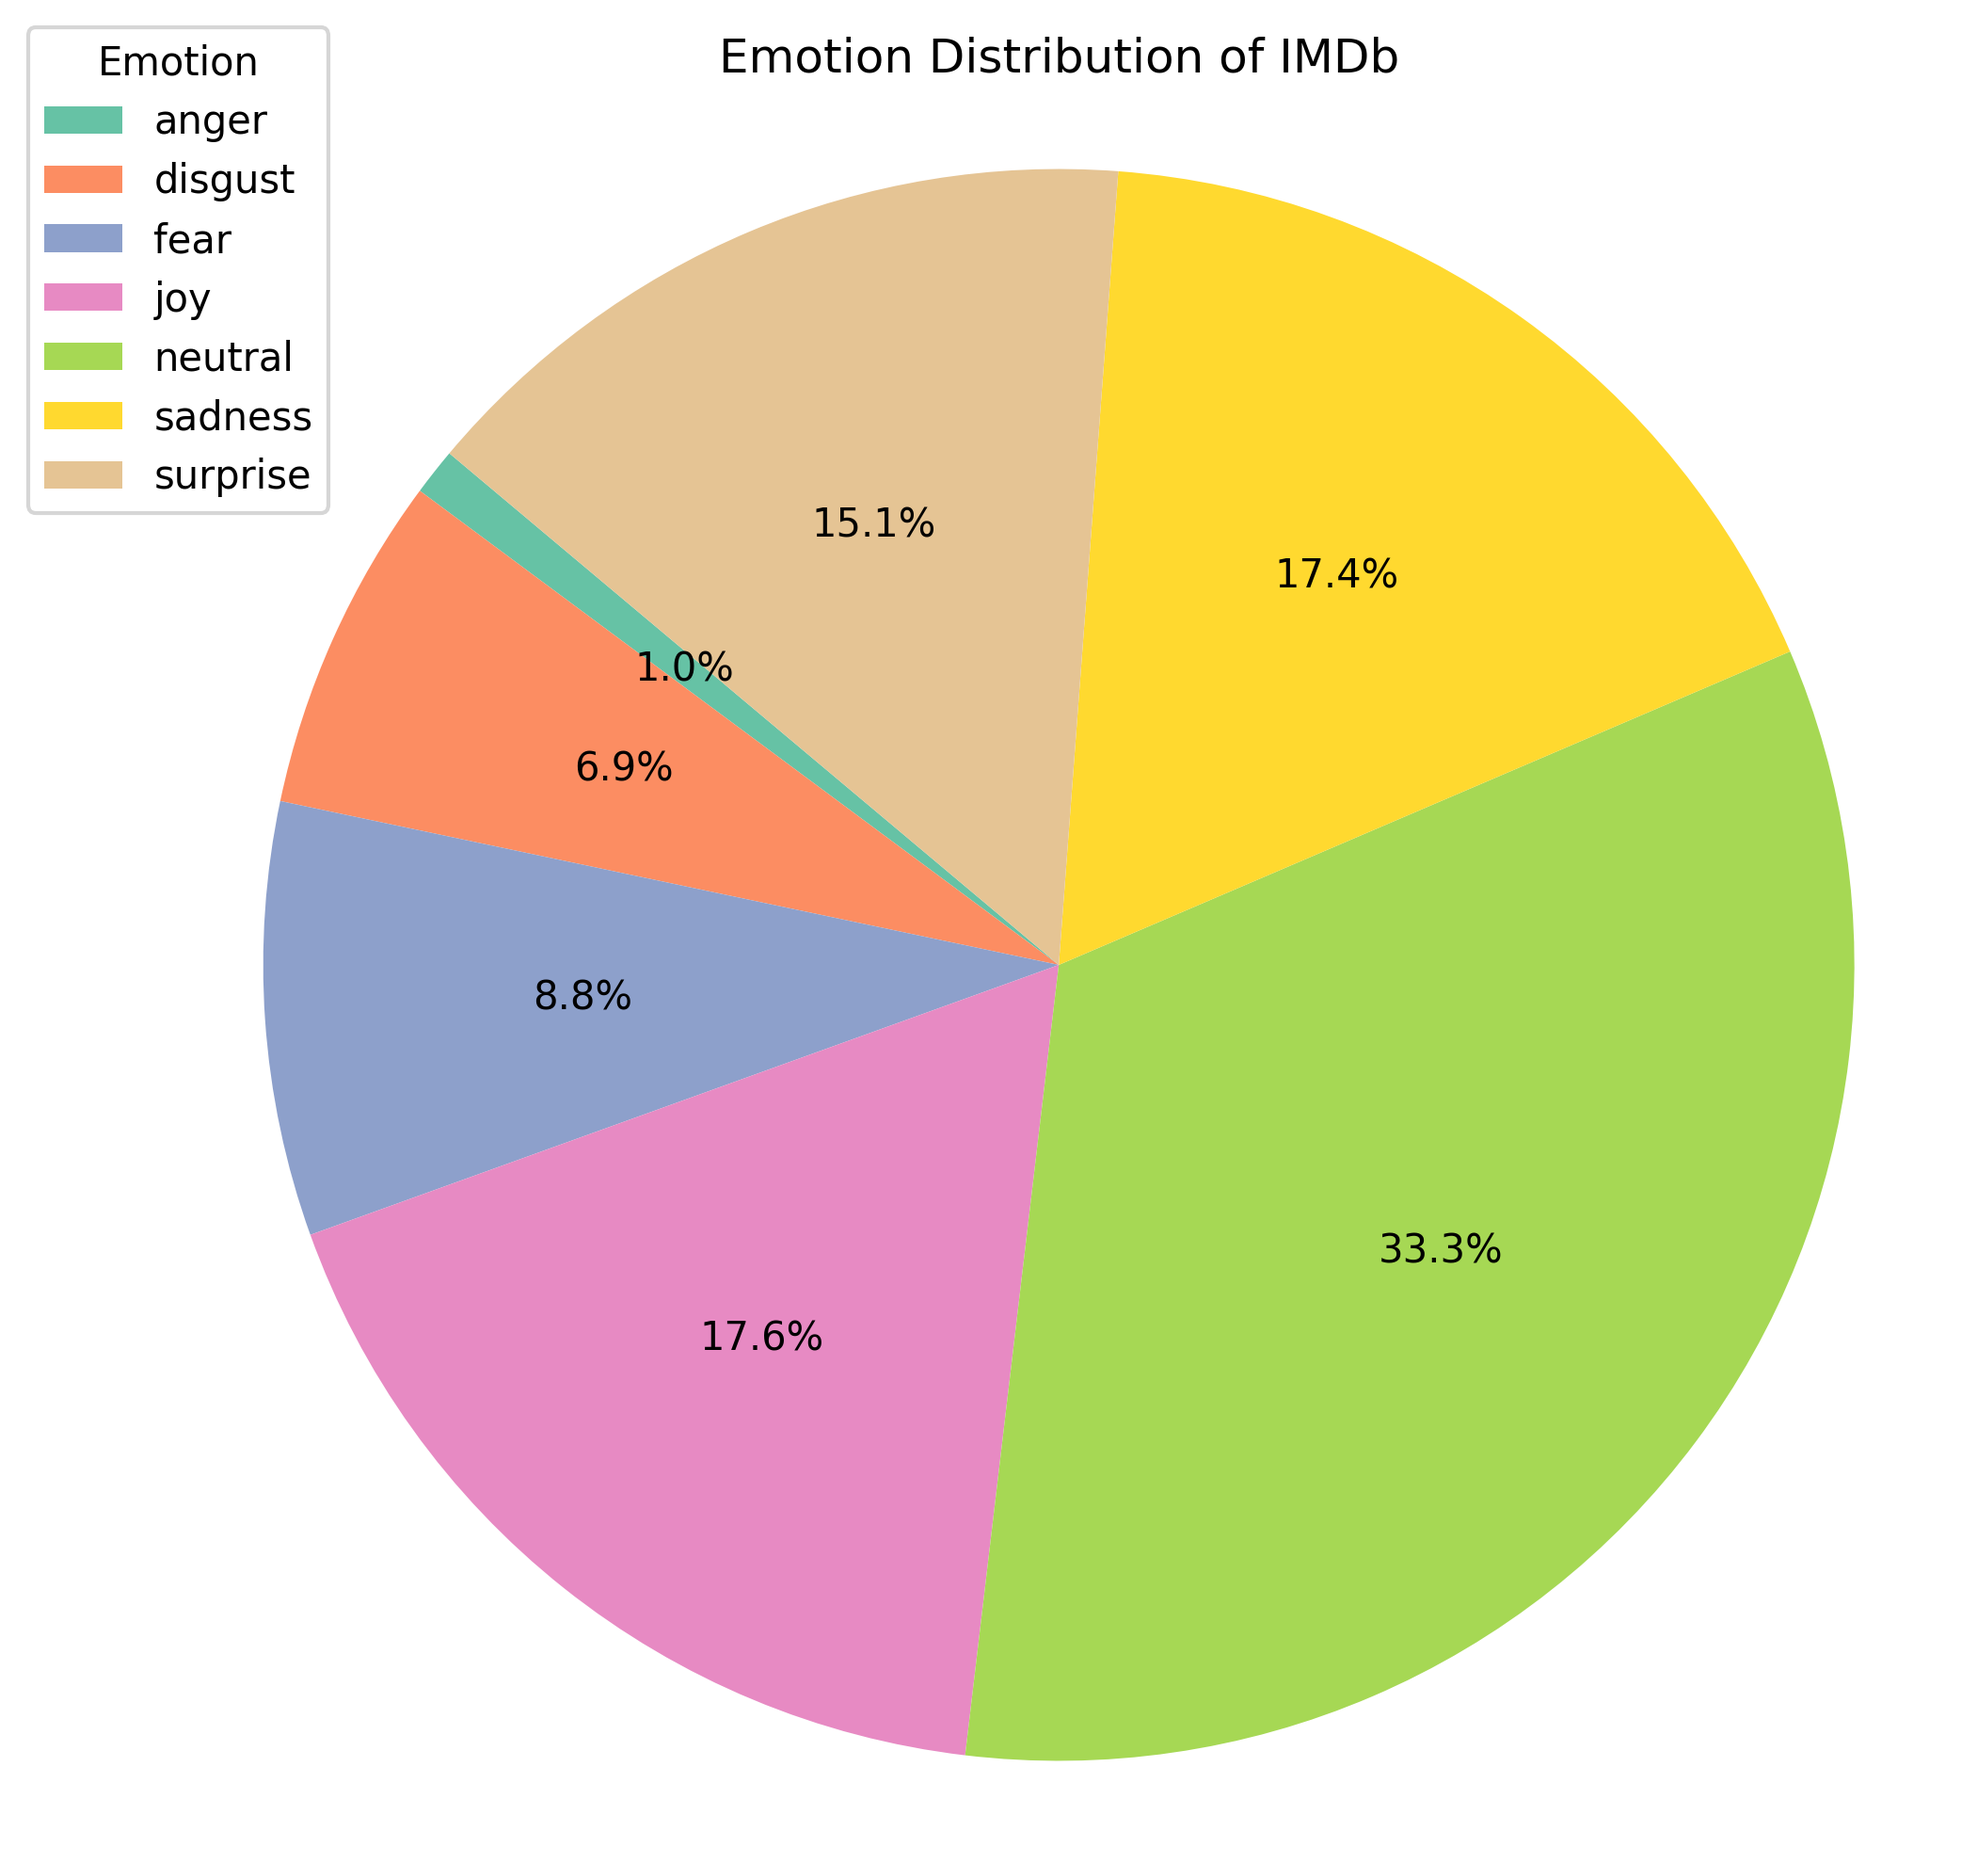
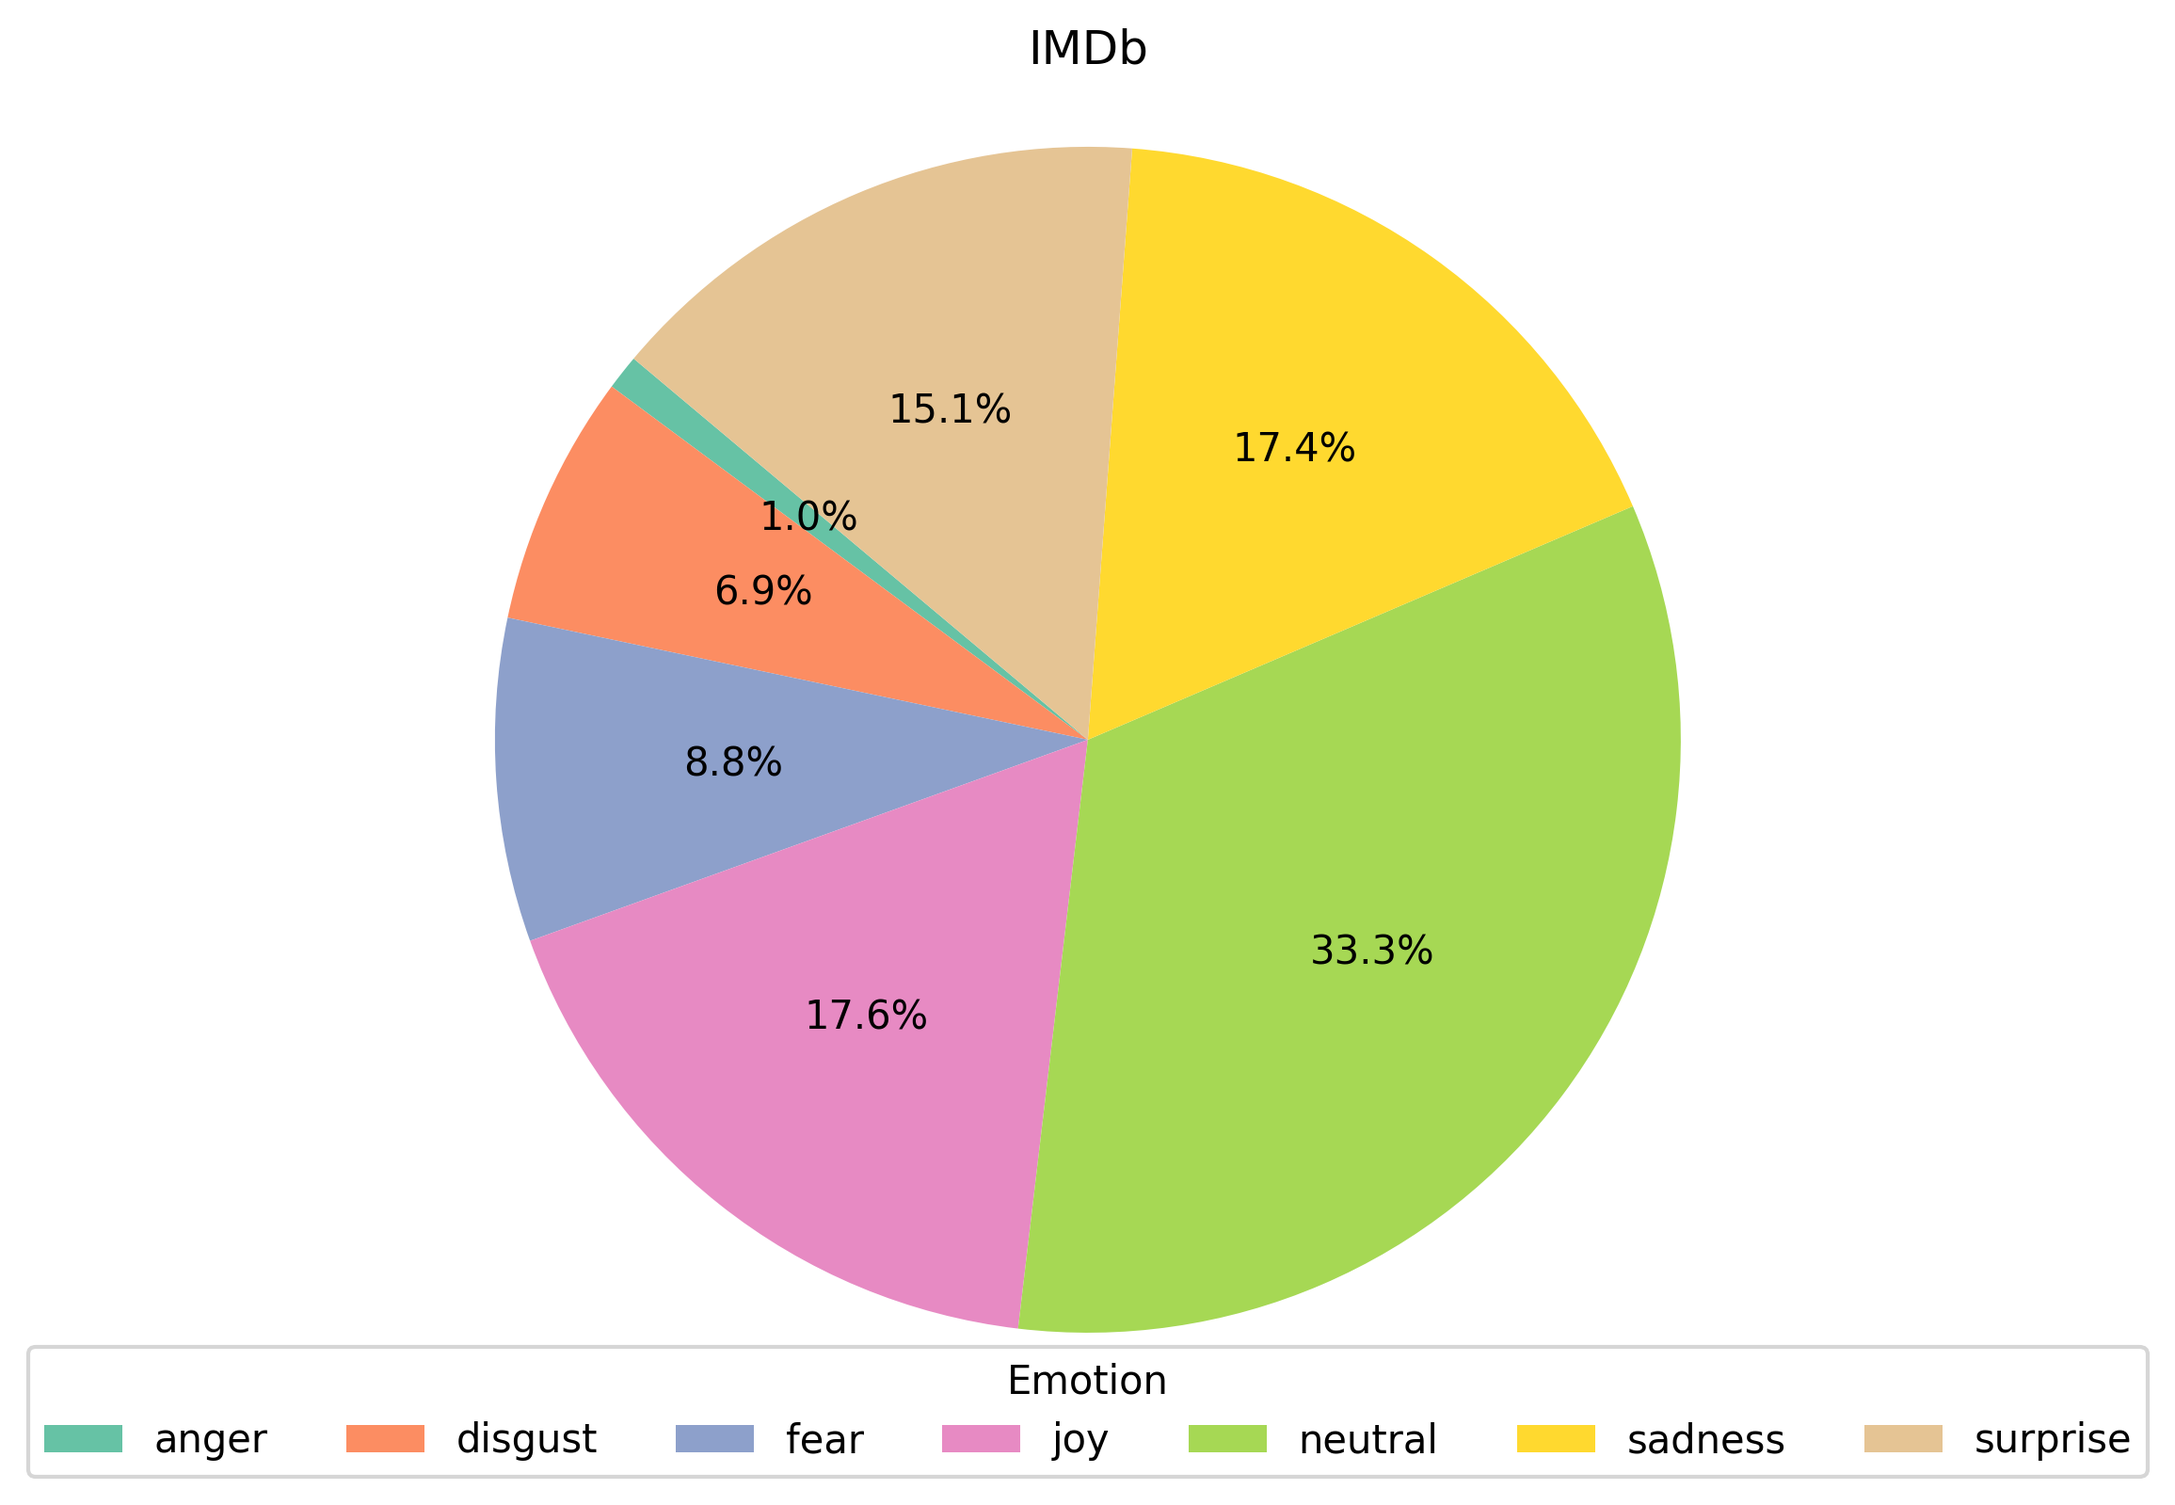
add emotion scores pie charts and table

diff --git a/visualization/emotion.py b/visualization/emotion.py
@@ -16,7 +16,7 @@ imdb_avg_emotions.columns = ['Emotion', 'Average Score']
 
 # pie chart for imdb average emotion scores
 colors = sns.color_palette("Set2", n_colors=7)
-plt.figure(figsize=(8, 8))
+plt.figure(figsize=(8, 6))
 plt.pie(imdb_avg_emotions['Average Score'],
         labels= None,
         autopct='%1.1f%%',
@@ -25,14 +25,15 @@ plt.pie(imdb_avg_emotions['Average Score'],
         )
 
 plt.legend(imdb_avg_emotions['Emotion'],
-           loc='upper left',
+           loc='lower center',
            title='Emotion',
-           bbox_to_anchor=(-0.1, 1.05))
+           bbox_to_anchor=(0.5, -0.08),
+           ncol=7)
 
-plt.title('Emotion Distribution of IMDb')
+plt.title('IMDb')
 plt.axis('equal')
-plt.savefig('emotion_scores_imdb.png',dpi=300, bbox_inches="tight")
-plt.show()
+# plt.savefig('emotion_scores_imdb.png',dpi=300, bbox_inches="tight")
+# plt.show()
 
 def generate_emotion_pie_charts(ai_df, source_name='ai'):
     ai_df = ai_df.copy()
@@ -137,10 +138,68 @@ def plot_emotion_by_question(ai_df, question_label):
 
 
 # For subtitles
-ai_subtitle = pd.read_csv('../emotions_output/average_emotion_scores_subtitles.csv')
-generate_emotion_pie_charts(ai_subtitle, source_name="subtitle")
+# ai_subtitle = pd.read_csv('../emotions_output/average_emotion_scores_subtitles.csv')
+# generate_emotion_pie_charts(ai_subtitle, source_name="subtitle")
+#
+# # For screenplays
+# ai_screenplay = pd.read_csv('../emotions_output/average_emotion_scores_screenplays.csv')
+# generate_emotion_pie_charts(ai_screenplay, source_name="screenplay")
 
-# For screenplays
-ai_screenplay = pd.read_csv('../emotions_output/average_emotion_scores_screenplays.csv')
-generate_emotion_pie_charts(ai_screenplay, source_name="screenplay")
+# pie chart for AI models average emotion scores
+ai_df = pd.read_csv('../emotions_output/average_emotion_scores_subtitles.csv')
+colors = sns.color_palette("Set2", n_colors=7)
+models = ['chatgpt', 'deepseek', 'gemini', 'gemini_context']
+numeric_columns = ai_df.select_dtypes(include=['float64', 'int64']).columns
 
+fig, axes = plt.subplots(1, len(models), figsize=(18, 6))
+# store legend names
+model_data_list = []
+for idx, model in enumerate(models):
+    model_data = ai_df[ai_df['File'].str.contains(model)][numeric_columns].mean(axis=0)
+    model_data_list.append(model_data)
+    axes[idx].pie(model_data,
+                  autopct='%1.1f%%',
+                  startangle=90,
+                  textprops={'fontsize':8},
+                  pctdistance=0.8,
+                  colors=colors)
+    axes[idx].axis('equal')
+    axes[idx].set_title(f'{model}', y = 1.0)
+
+# legends
+legend_labels = model_data_list[0].index
+
+# plt.suptitle('Emotion Distribution of AI Models')
+plt.tight_layout()
+fig.legend(legend_labels, loc='center', ncol=7, bbox_to_anchor=(0.5, 0.05))
+plt.savefig('emotion_scores_ai_models.png',dpi=300, bbox_inches="tight")
+plt.show()
+
+# table for average emotion scores (AI models and IMDb)
+model_avg_emotions = {}
+for model in models:
+    model_data = ai_df[ai_df['File'].str.contains(model)][numeric_columns].mean(axis=0)
+    model_avg_emotions[model] = model_data
+avg_emotions_df = pd.DataFrame(model_avg_emotions).T
+
+# convert to df
+imdb_avg_emotions_df = imdb_avg_emotions.set_index('Emotion').T
+imdb_avg_emotions_df.index = ['IMDb']
+imdb_avg_emotions_df.columns.name = None
+
+combined_df = avg_emotions_df.copy()
+combined_df.loc['IMDb'] = imdb_avg_emotions_df.values[0]
+combined_df = combined_df.round(3)
+print(combined_df)
+
+plt.figure(figsize=(12, 6))
+plt.table(cellText=combined_df.values,
+          colLabels=combined_df.columns,
+          rowLabels=combined_df.index,
+          loc='center',
+          cellLoc='center',
+          bbox=[0.0, 0.0, 1.0, 1.0])  # Adjust position of the table
+plt.axis('off')
+# plt.title('Combined Emotion Scores Table (AI Models + IMDb as 6th row)')
+plt.savefig('emotion_scores_table.png',dpi=300, bbox_inches="tight")
+plt.show()
